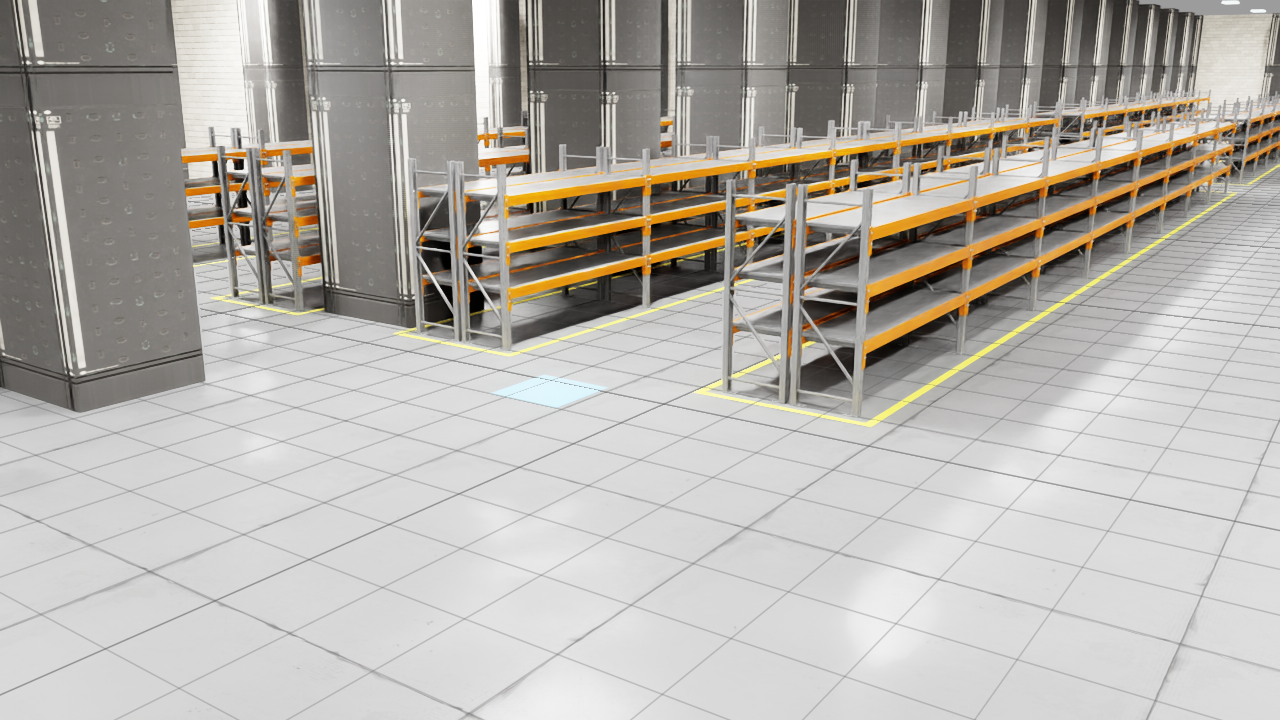
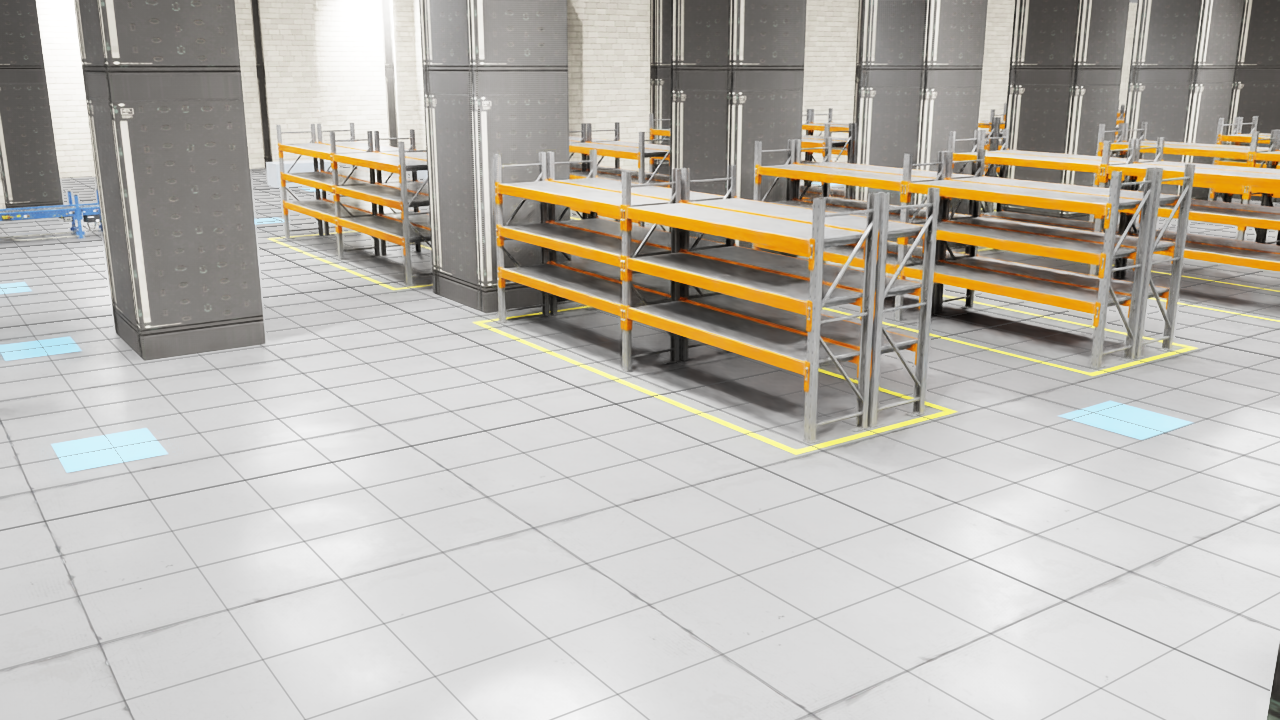
feat: 씬 빌더 v5.6 어댑터 — 세로형 랙 90° 회전 조립, V&V 100/100/0
- 입력을 map/ v5.6으로 교체: rack_units(x중심·y시작·유닛수, 세로형 더블로우)
- 랙 부품 z축 90° 회전 조립 — 유닛 4.0m = SM_RackShelf 베이 1개 정합
  (프레임 144 유닛 경계 공유 + 데크 288, 래퍼 Xform으로 이동·회전)
- 셀값 5 분리: 컨베이어(투명 콜라이더+A08 비주얼 24섹션, L자·세로 포함 6기)
  vs 작업대 16(가시 박스) — 폭 기준은 qc 작업대 오분류(14/16)로 좌표 기준 채택
- omap V&V: 벽·컨베이어·작업대 재현율 100.0% · 렉 풋프린트 점유 100.0% · 오검출 0셀
  (가로형 v6.3의 98.6%보다 개선)

diff --git a/sil/t3_warehouse/build_scene.py b/sil/t3_warehouse/build_scene.py
@@ -1,15 +1,16 @@
-"""T3 씬 빌더 — occupancy grid + rack_rows를 Isaac USD 씬으로 세운다.
+"""T3 씬 빌더 — occupancy grid + rack_units를 Isaac USD 씬으로 세운다 (v5.6 맵).
 
 원칙: 그리드가 곧 씬이다 (DES와 SIL의 단일 소스).
-  - 벽·기둥(셀값 1): 그리디 메싱으로 병합한 박스 (높이 3.0m)
-  - 컨베이어(셀값 5): 병합 박스 (높이 0.9m — 라이다 평면 위)
-  - 렉(rack_rows.npy): NVIDIA 부품 조립 — SM_RackFrame_03(0.127x1.0x3.0) 5개
-    + SM_RackShelf_01(4.0x1.08 데크) 4베이 x 3데크, 유닛 16.13m, 더블(등맞대기 2줄)
+  - 벽·기둥(셀값 1): 그리디 메싱으로 병합한 박스 (높이 8.0m)
+  - 컨베이어·작업대(셀값 5): 폭으로 구분 — 폭 0.9m 컨베이어는 투명 콜라이더
+    + ConveyorBelt_A08 비주얼, 폭 1.2m+ 작업대는 가시 박스 (높이 0.9m — 라이다 평면 위)
+  - 렉(rack_units.npy): 세로형 더블로우 — [x중심, y시작, 유닛수], 유닛 4.0m =
+    SM_RackShelf_01 베이 1개와 정확 일치. 부품을 z축 90° 회전해 y축 정렬 조립
   - V&V: isaacsim.asset.gen.omap으로 씬→점유맵 재생성 후 원 그리드와 diff
 
 실행:
   cd ~/isaacsim && ./python.sh <repo>/sil/t3_warehouse/build_scene.py
-전제: sil/t3_warehouse_map/에서 map_gen.py 실행 완료(npy 존재).
+전제: sil/t3_warehouse_map/map/에서 warehouse_layout_v5_5_final.py 실행 완료(npy 존재).
 """
 
 from isaacsim import SimulationApp
@@ -28,7 +29,7 @@ import omni.usd
 from pxr import Gf, Sdf, Usd, UsdGeom, UsdLux, UsdPhysics, UsdShade
 
 HERE = os.path.dirname(os.path.abspath(__file__))
-MAP_DIR = os.path.join(HERE, "..", "t3_warehouse_map")
+MAP_DIR = os.path.join(HERE, "..", "t3_warehouse_map", "map")
 OUT_DIR = os.path.join(HERE, "out")
 os.makedirs(OUT_DIR, exist_ok=True)
 
@@ -38,24 +39,28 @@ FRAME_USD = ASSETS + "/Isaac/Environments/Simple_Warehouse/Props/SM_RackFrame_03
 
 MAT_DIR = ASSETS + "/Isaac/Environments/Simple_Warehouse/Materials"
 
-CELL = 0.1                      # m/셀 (map_gen과 동일)
+CELL = 0.1                      # m/셀 (맵 스크립트와 동일)
 WALL_H = 8.0                    # 산업 표준고 가정 (도면에 층고 정보 없음 — 시각용, 라이다 무관)
 CONV_H = 0.9                    # 라이다 평면(0.7m) 위 — 가시(콜라이더)
+TABLE_H = 0.9                   # 작업대 높이 — 라이다 평면 위 (0.6m 큐브 관통 사고 교훈)
 
 # 컨베이어 비주얼 — ConveyorBelt_A08 직선 섹션 (컴포즈 실측 2.719x1.15x1.17, 피벗 동측 끝)
 CONV_USD = ASSETS + "/Isaac/Props/Conveyors/ConveyorBelt_A08.usd"
 CONV_SEC_L = 2.719
-CONVEYORS_VIS = [(14.6, 38.9, 16.0), (14.6, 70.9, 16.0),
-                 (94.6, 43.1, 15.0), (94.6, 75.1, 15.0)]   # (x시작, y하단, 길이) — map_gen v6.3 동일
-RACK_UNIT_L = 16.13
-RACK_D = 1.08
-BAY = 4.0                       # 베이 피치 (16.13 = 4x4.0 + 0.13 프레임 마진)
+# (x0, y0, 길이, 세로 여부) — 맵 v5.6 CONVEYORS/CONVEYORS_V와 동일 좌표
+CONVEYORS_VIS = [(14.6, 38.9, 16.0, False), (14.6, 70.9, 16.0, False),
+                 (94.6, 43.1, 15.0, False), (94.6, 75.1, 15.0, False),
+                 (101.0, 34.4, 7.4, False),                 # 패킹→출고 연결 (동진)
+                 (107.5, 35.3, 7.8, True)]                  # 패킹→출고 연결 (북상)
+UNIT_L = 4.0                    # 렉 유닛 길이 (y) = SM_RackShelf 베이 1개
+RACK_D = 1.08                   # 데크 실측 깊이 (그리드 선언 1.2 — 풋프린트 내 배치)
+RACK_W = 2.4                    # 더블로우 그리드 폭 (맵 RACK_UNIT_D 1.2 x 2)
 DECK_Z = (1.0, 1.75, 2.5)       # 데크 높이 3 + 바닥 = 4단 (RACK_LEVELS)
 
 grid = np.load(os.path.join(MAP_DIR, "occupancy_grid.npy"))
-rack_rows = np.load(os.path.join(MAP_DIR, "rack_rows.npy"))
+rack_units = np.load(os.path.join(MAP_DIR, "rack_units.npy"))
 ROWS, COLS = grid.shape
-print(f"[in] grid {ROWS}x{COLS}, rack_rows {len(rack_rows)}행(블록)")
+print(f"[in] grid {ROWS}x{COLS}, rack_units {len(rack_units)}세그(세로형)")
 
 
 def greedy_rects(mask):
@@ -173,6 +178,19 @@ def bind_mdl(stage, prim, name, mdl_file):
     UsdShade.MaterialBindingAPI.Apply(prim.GetPrim() if hasattr(prim, "GetPrim") else prim).Bind(mtl)
 
 
+def add_asset(stage, path, usd, x, y, z=0.0, rot_z=None):
+    """참조 에셋 배치 — 에셋 루트에 자체 xformOpOrder가 있어도 안전하도록
+    래퍼 Xform이 이동·회전을 담당한다 (A08에서 실측한 예외의 일반화)."""
+    w = UsdGeom.Xform.Define(stage, path)
+    xf = UsdGeom.Xformable(w.GetPrim())
+    xf.AddTranslateOp().Set(Gf.Vec3d(x, y, z))
+    if rot_z is not None:
+        xf.AddRotateZOp().Set(rot_z)
+    a = UsdGeom.Xform.Define(stage, path + "/asset")
+    a.GetPrim().GetReferences().AddReference(usd)
+    return w
+
+
 t0 = time.time()
 # 저작은 렌더러와 분리된 순수 USD 스테이지에서 — 참조를 하나씩 붙이며 app.update()를
 # 돌리면 로딩 중 hydra 경로에서 간헐 세그폴트(3회 재현). 완성 파일을 한 번에 열면 안정.
@@ -186,7 +204,7 @@ UsdPhysics.Scene.Define(stage, Sdf.Path("/physicsScene"))
 UsdGeom.Xform.Define(stage, "/World")
 stage.SetDefaultPrim(stage.GetPrimAtPath("/World"))
 
-# 바닥(충돌 박스는 표면 아래로 내려 시각 메시와 z-파이팅 방지) + 천장 + 재질 + 조명
+# 바닥(충돌 박스는 표면 아래로 내려 시각 메시와 z-파이팅 방지) + 재질 + 조명
 W, H = COLS * CELL, ROWS * CELL
 add_box(stage, "/World/ground", -5, -5, W + 10, H + 10, -0.11, -0.01)
 floor = add_quad(stage, "/World/floor", -5, -5, W + 5, H + 5, 0.0, uv_scale=4.0)
@@ -216,7 +234,7 @@ dome = UsdLux.DomeLight.Define(stage, "/World/dome")
 dome.CreateIntensityAttr(250)                             # 하늘 보조광
 print(f"[0] 드레싱: 바닥 재질 + 태양 + 현수등 {n_light}기")
 
-# 1) 벽·기둥 (셀값 1)
+# 1) 벽·기둥 (셀값 1 — v5.6은 기둥도 구조체에 포함, 크기로 구분)
 walls = greedy_rects(grid == 1)
 walls_xf = UsdGeom.Xform.Define(stage, "/World/walls")
 cols_xf = UsdGeom.Xform.Define(stage, "/World/columns")
@@ -234,64 +252,82 @@ bind_omnipbr(stage, cols_xf, "ColumnBeige",
              TEX + "/T_WallBoard_01_D.png", TEX + "/T_WallBoard_01_N.png", (0.78, 0.71, 0.59))
 print(f"[1] 벽 {len(walls) - n_colbox} + 기둥 {n_colbox} (타일링 UV 메시, 베이지 톤)")
 
-# 2) 컨베이어 (셀값 5)
+# 2) 컨베이어·작업대 (셀값 5) — rect 중심이 컨베이어 라인 밴드 위인지로 구분.
+#    (폭 기준은 함정: qc 작업대가 컨베이어와 셀이 붙어 그리디 분할되면 0.6m 조각이
+#    되어 컨베이어로 오분류 — 14/16개 실측 후 좌표 기준으로 교체)
+
+
+def on_conveyor(cx, cy):
+    for x0, y0, L, vert in CONVEYORS_VIS:
+        if vert and x0 - 0.3 <= cx <= x0 + 1.2 and y0 - 0.3 <= cy <= y0 + L + 0.3:
+            return True
+        if not vert and x0 - 0.3 <= cx <= x0 + L + 0.3 and y0 - 0.3 <= cy <= y0 + 1.2:
+            return True
+    return False
+
+
 convs = greedy_rects(grid == 5)
 UsdGeom.Xform.Define(stage, "/World/conveyors")
+UsdGeom.Xform.Define(stage, "/World/worktables")
+n_conv = n_tab = 0
 for i, (r0, c0, h, w) in enumerate(convs):
-    b = add_box(stage, f"/World/conveyors/c_{i}", c0 * CELL, r0 * CELL, w * CELL, h * CELL, 0.0, CONV_H)
-    UsdGeom.Imageable(b.GetPrim()).MakeInvisible()        # 콜라이더 전용 — 비주얼은 실물 에셋
+    if on_conveyor((c0 + w / 2) * CELL, (r0 + h / 2) * CELL):   # 컨베이어 — 콜라이더 전용(비주얼은 A08)
+        b = add_box(stage, f"/World/conveyors/c_{i}", c0 * CELL, r0 * CELL,
+                    w * CELL, h * CELL, 0.0, CONV_H)
+        UsdGeom.Imageable(b.GetPrim()).MakeInvisible()
+        n_conv += 1
+    else:                                                 # 작업대 — 가시 박스 (V&V·플래너 동일 소스)
+        b = add_box(stage, f"/World/worktables/t_{i}", c0 * CELL, r0 * CELL,
+                    w * CELL, h * CELL, 0.0, TABLE_H)
+        UsdGeom.Gprim(b.GetPrim()).CreateDisplayColorAttr([(0.35, 0.38, 0.42)])
+        n_tab += 1
 # 정적 비주얼 — 기능 없는 모양용 (V&V·플래너는 위 콜라이더 박스 기준 그대로)
 n_sec = 0
-for ci, (cx0, cy0, clen) in enumerate(CONVEYORS_VIS):
-    yc = cy0 + 0.45
+for ci, (cx0, cy0, clen, vert) in enumerate(CONVEYORS_VIS):
     n = int(clen // CONV_SEC_L)
-    sx = cx0 + (clen - n * CONV_SEC_L) / 2
+    s0 = (clen - n * CONV_SEC_L) / 2
     for k in range(n):
-        # A08 루트에 자체 xformOpOrder가 있어 같은 op 추가가 예외 — 래퍼 Xform이 이동 담당
-        w_xf = UsdGeom.Xform.Define(stage, f"/World/conveyors/vis{ci}_{k}")
-        UsdGeom.Xformable(w_xf.GetPrim()).AddTranslateOp().Set(
-            Gf.Vec3d(sx + k * CONV_SEC_L + 2.719, yc, 0.0))   # 에셋 피벗 = 동측 끝(x -2.719~0)
-        c = UsdGeom.Xform.Define(stage, f"/World/conveyors/vis{ci}_{k}/asset")
-        c.GetPrim().GetReferences().AddReference(CONV_USD)
+        off = s0 + k * CONV_SEC_L + CONV_SEC_L            # 에셋 피벗 = 진행측 끝 (x -2.719~0)
+        if vert:                                          # z 90° 회전 → 스팬이 -y 방향
+            add_asset(stage, f"/World/conveyors/vis{ci}_{k}", CONV_USD,
+                      cx0 + 0.45, cy0 + off, rot_z=90.0)
+        else:
+            add_asset(stage, f"/World/conveyors/vis{ci}_{k}", CONV_USD,
+                      cx0 + off, cy0 + 0.45)
         n_sec += 1
-print(f"[2] 컨베이어: 콜라이더 박스 {len(convs)}(투명) + 비주얼 섹션 {n_sec}")
+print(f"[2] 컨베이어 콜라이더 {n_conv}(투명) + 비주얼 섹션 {n_sec} · 작업대 {n_tab}")
 
-# 3) 렉 — 부품 조립 (rack_rows: [x시작, y하단, 유닛수] / 행폭 2xRACK_D 더블)
+# 3) 렉 — 부품 조립 (rack_units: [x중심, y시작, 유닛수] — 세로형 더블로우)
+#    유닛 4.0m = 데크(베이) 1개와 정확 일치. 컴포즈된 데크는 4.0(x)x1.08(y)로
+#    가로 정렬이므로 세로형에선 z축 90° 회전이 "필요"하다 (v6.3 가로형은 회전 금지
+#    였던 것과 반대 — 근거는 동일하게 참조 컴포즈 bbox 실측).
 UsdGeom.Xform.Define(stage, "/World/racks")
 n_frame = n_shelf = 0
-for bi, (xs, yb, n_units) in enumerate(rack_rows):
+for bi, (xc, ys, n_units) in enumerate(rack_units):
     n_units = int(n_units)
-    for line in range(2):                              # 등맞대기 2줄
-        yc = yb + RACK_D * (line + 0.5)                # 줄 중심 y
-        for u in range(n_units):
-            x0 = xs + u * RACK_UNIT_L
-            root = f"/World/racks/b{bi}_l{line}_u{u}"
-            UsdGeom.Xform.Define(stage, root)
-            for k in range(5):                         # 프레임 5 (베이 경계)
-                p = UsdGeom.Xform.Define(stage, f"{root}/frame_{k}")
-                p.GetPrim().GetReferences().AddReference(FRAME_USD)
-                UsdGeom.Xformable(p.GetPrim()).AddTranslateOp().Set(
-                    Gf.Vec3d(x0 + 0.065 + BAY * k, yc, 0.0))
-                n_frame += 1
-            for k in range(4):                         # 베이 4 x 데크 3
-                cx = x0 + 0.065 + BAY * k + BAY / 2
-                for dz in DECK_Z:
-                    p = UsdGeom.Xform.Define(stage, f"{root}/shelf_{k}_{int(dz*100)}")
-                    p.GetPrim().GetReferences().AddReference(SHELF_USD)
-                    # 회전 불필요 — 참조 컴포즈된 데크는 이미 4.0(x)x1.08(y) 행 정렬.
-                    # (에셋 파일을 직접 열어 잰 bbox는 축이 뒤바뀐 값을 줌 — 반드시
-                    # 참조로 컴포즈한 상태에서 잴 것. omap V&V가 이 오배치를 잡아냈다)
-                    UsdGeom.Xformable(p.GetPrim()).AddTranslateOp().Set(Gf.Vec3d(cx, yc, dz))
-                    n_shelf += 1
+    for line in range(2):                              # 등맞대기 2줄 (x = xc ± 0.54, 등이 맞닿음)
+        lx = xc + RACK_D * (line - 0.5)
+        root = f"/World/racks/b{bi}_l{line}"
+        UsdGeom.Xform.Define(stage, root)
+        for k in range(n_units + 1):                   # 프레임 — 유닛 경계 공유 (n+1개)
+            add_asset(stage, f"{root}/frame_{k}", FRAME_USD,
+                      lx, ys + UNIT_L * k, rot_z=90.0)
+            n_frame += 1
+        for u in range(n_units):                       # 유닛당 데크 3 (+바닥 = 4단)
+            yc = ys + UNIT_L * u + UNIT_L / 2
+            for dz in DECK_Z:
+                add_asset(stage, f"{root}/shelf_{u}_{int(dz*100)}", SHELF_USD,
+                          lx, yc, z=dz, rot_z=90.0)
+                n_shelf += 1
 print(f"[3] 렉 조립: 프레임 {n_frame} + 데크 {n_shelf}", flush=True)
 
-# 바닥 마킹 — 렉 블록 안전선(황) + 스테이션 마킹(청): 시인성 + 레이아웃 데이터의 시각화
+# 바닥 마킹 — 렉 세그먼트 안전선(황) + 스테이션 마킹(청): 시인성 + 레이아웃 데이터의 시각화
 UsdGeom.Xform.Define(stage, "/World/markings")
 n_mark = 0
 LW = 0.12
-for bi, (xs, yb, nu) in enumerate(rack_rows):
-    bx0, by0 = xs - 0.27, yb - 0.27
-    bx1, by1 = xs + int(nu) * RACK_UNIT_L + 0.27, yb + 2 * RACK_D + 0.27
+for bi, (xc, ys, nu) in enumerate(rack_units):
+    bx0, by0 = xc - RACK_W / 2 - 0.27, ys - 0.27
+    bx1, by1 = xc + RACK_W / 2 + 0.27, ys + int(nu) * UNIT_L + 0.27
     for j, (qx0, qy0, qx1, qy1) in enumerate([
             (bx0, by0, bx1, by0 + LW), (bx0, by1 - LW, bx1, by1),
             (bx0, by0, bx0 + LW, by1), (bx1 - LW, by0, bx1, by1)]):
@@ -359,21 +395,21 @@ if occ is None:
     print(f"[5] omap 버퍼 크기 불일치({buf.size}) — diff 생략")
 else:
     from scipy.ndimage import binary_dilation
-    st = (grid == 1) | (grid == 5)                     # 벽·컨베이어: 셀 단위 일치 기대
+    st = (grid == 1) | (grid == 5)                     # 벽·컨베이어·작업대: 셀 단위 일치 기대
     tol = binary_dilation(occ, iterations=2)
     cover = tol[st].mean() * 100
     rackmask = np.zeros_like(st)
-    for xs, yb, n_units in rack_rows:
-        r0, r1 = int(yb / CELL), int((yb + 2 * RACK_D) / CELL)
-        c0, c1 = int(xs / CELL), int((xs + int(n_units) * RACK_UNIT_L) / CELL)
+    for xc, ys, n_units in rack_units:
+        r0, r1 = int(ys / CELL), int((ys + int(n_units) * UNIT_L) / CELL)
+        c0, c1 = int((xc - RACK_D) / CELL), int((xc + RACK_D) / CELL)
         rackmask[r0:r1, c0:c1] = True
     rack_hit = occ[rackmask].mean() * 100
     fp = occ & ~binary_dilation(st | rackmask, iterations=3)
-    print(f"[5] V&V — 벽·컨베이어 재현율 {cover:.1f}% · 렉 풋프린트 내 점유(다리·데크 두께) {rack_hit:.1f}%"
+    print(f"[5] V&V — 벽·컨베이어·작업대 재현율 {cover:.1f}% · 렉 풋프린트 내 점유(다리·데크 두께) {rack_hit:.1f}%"
           f" · 풋프린트 밖 오검출 {fp.sum()}셀")
     np.save(os.path.join(OUT_DIR, "omap_occ.npy"), occ)
 
-# 6) 스크린샷 — 탑뷰 + 퍼스펙티브
+# 6) 스크린샷 — 탑뷰 + 퍼스펙티브 + 통로 뷰(세로형 → 북향)
 from omni.kit.viewport.utility import capture_viewport_to_file, get_active_viewport
 
 cam = UsdGeom.Camera.Define(stage, "/World/cam")
@@ -400,8 +436,8 @@ def shoot(pos, rot, fname, focal=18.0):
 
 
 shoot((COLS * CELL / 2, ROWS * CELL / 2, 120), (0, 0, 0), "scene_top.png", focal=24.0)
-shoot((18, 42, 4.5), (75, 0, -55), "scene_persp.png")    # 실내 조감
-shoot((60, 47, 1.2), (87, 0, -90 + 12), "scene_aisle.png", focal=14.0)
+shoot((22, 38, 4.5), (75, 0, -35), "scene_persp.png")     # 남서측 실내 조감 (작업 라인+렉)
+shoot((59.1, 45.5, 1.2), (87, 0, 0), "scene_aisle.png", focal=14.0)   # 통로5 북향
 
 app.close()
 print(f"[done] 총 {time.time()-t0:.0f}s")

diff --git a/sil/t3_warehouse/README.md b/sil/t3_warehouse/README.md
@@ -1,33 +1,40 @@
 # T3 — DXF 공장 씬 (씬 빌더)
 
-"그리드가 곧 씬"이 원칙: map_gen(v6.3)의 occupancy grid와 랙 배치 좌표를 그대로
-Isaac USD 씬으로 세운다. DES와 SIL이 단일 소스를 공유하는 구조의 물리 실체.
+"그리드가 곧 씬"이 원칙: 팀원 개편 맵 v5.6(`t3_warehouse_map/map/`)의 occupancy grid와
+랙 배치 좌표를 그대로 Isaac USD 씬으로 세운다. DES와 SIL이 단일 소스를 공유하는
+구조의 물리 실체.
 
 ## 파일
 
 | 파일 | 역할 |
 |---|---|
-| `build_scene.py` | 씬 빌더 — 그리드→벽·컨베이어 박스, rack_rows→NVIDIA 랙 부품 조립, omap V&V, 스크린샷 |
+| `build_scene.py` | 씬 빌더 — 그리드→벽·작업대 박스, rack_units→NVIDIA 랙 부품 조립(세로형), omap V&V, 스크린샷 |
 | `warehouse_scene.usd` | 산출 씬 (재생성물 — untracked) |
+| `view_scene.py` | WebRTC 관전 뷰어 (완성 씬 열람용) |
 | `out/scene_*.png` | 검수 스크린샷 (탑뷰·조감·통로 시점) |
 | `out/omap_occ.npy` | 씬→점유맵 역생성 결과 (V&V) |
 
 ## 실행
 
 ```bash
-# 선행: sil/t3_warehouse_map/ 에서 map_gen.py 실행 (npy 생성)
+# 선행: sil/t3_warehouse_map/map/ 에서 warehouse_layout_v5_5_final.py 실행 (npy 생성)
 cd ~/isaacsim && ./python.sh <repo>/sil/t3_warehouse/build_scene.py
 ```
 
 ## 구성 요소
 
-- **벽·기둥** (그리드 셀값 1): 그리디 메싱으로 병합한 박스, 높이 3.0m
-- **컨베이어** (셀값 5): 병합 박스 높이 0.9m — 라이다 평면(0.7m) 위라 가시 (T2 교훈)
-- **랙**: full_warehouse와 동일한 NVIDIA 부품 실측 조립 —
-  `SM_RackFrame_03`(0.127×1.0×3.0m) 5개/유닛 + `SM_RackShelf_01`(4.0×1.08m 데크) 4베이×3데크.
-  유닛 16.13m = 4베이×4.0m + 프레임 마진 0.13 (팀 실측값과 일치 확인)
+- **벽·기둥** (그리드 셀값 1): 그리디 메싱으로 병합한 UV 타일링 박스 메시, 높이 8.0m,
+  베이지 톤. v5.6은 기둥도 셀값 1에 포함 — 풋프린트 크기(≤2.2m)로 구분해 재질만 달리함
+- **컨베이어·작업대** (셀값 5): rect 중심이 컨베이어 라인 밴드 위인지로 구분 —
+  컨베이어는 투명 콜라이더 + ConveyorBelt_A08 비주얼(L자 연결 포함 6기),
+  작업대는 가시 박스 0.9m 높이(라이다 평면 0.7m 위, T2 교훈)
+- **랙** (rack_units — 세로형 더블로우): `SM_RackFrame_03`(0.127×1.0×3.0m) 유닛 경계
+  공유 n+1개 + `SM_RackShelf_01`(4.0×1.08m 데크) 유닛당 3데크(+바닥 = 4단).
+  유닛 4.0m = 데크 베이 1개와 정확 일치. 컴포즈된 부품은 가로 정렬이므로 **z축 90°
+  회전 조립**(가로형 v6.3에서 회전 금지였던 것과 반대 — 참조 컴포즈 bbox 실측 기준)
 - **V&V**: `isaacsim.asset.gen.omap`으로 씬→점유맵을 역생성해 원 그리드와 diff —
-  "씬이 그리드와 일치한다"를 자동 검증 (벽·컨베이어 재현율, 랙 풋프린트 점유율, 오검출 수)
+  "씬이 그리드와 일치한다"를 자동 검증. v5.6 결과: 벽·컨베이어·작업대 재현율 100.0%,
+  랙 풋프린트 점유 100.0%, 풋프린트 밖 오검출 0셀
 
 ## 남은 것 (T3 본편)
 
